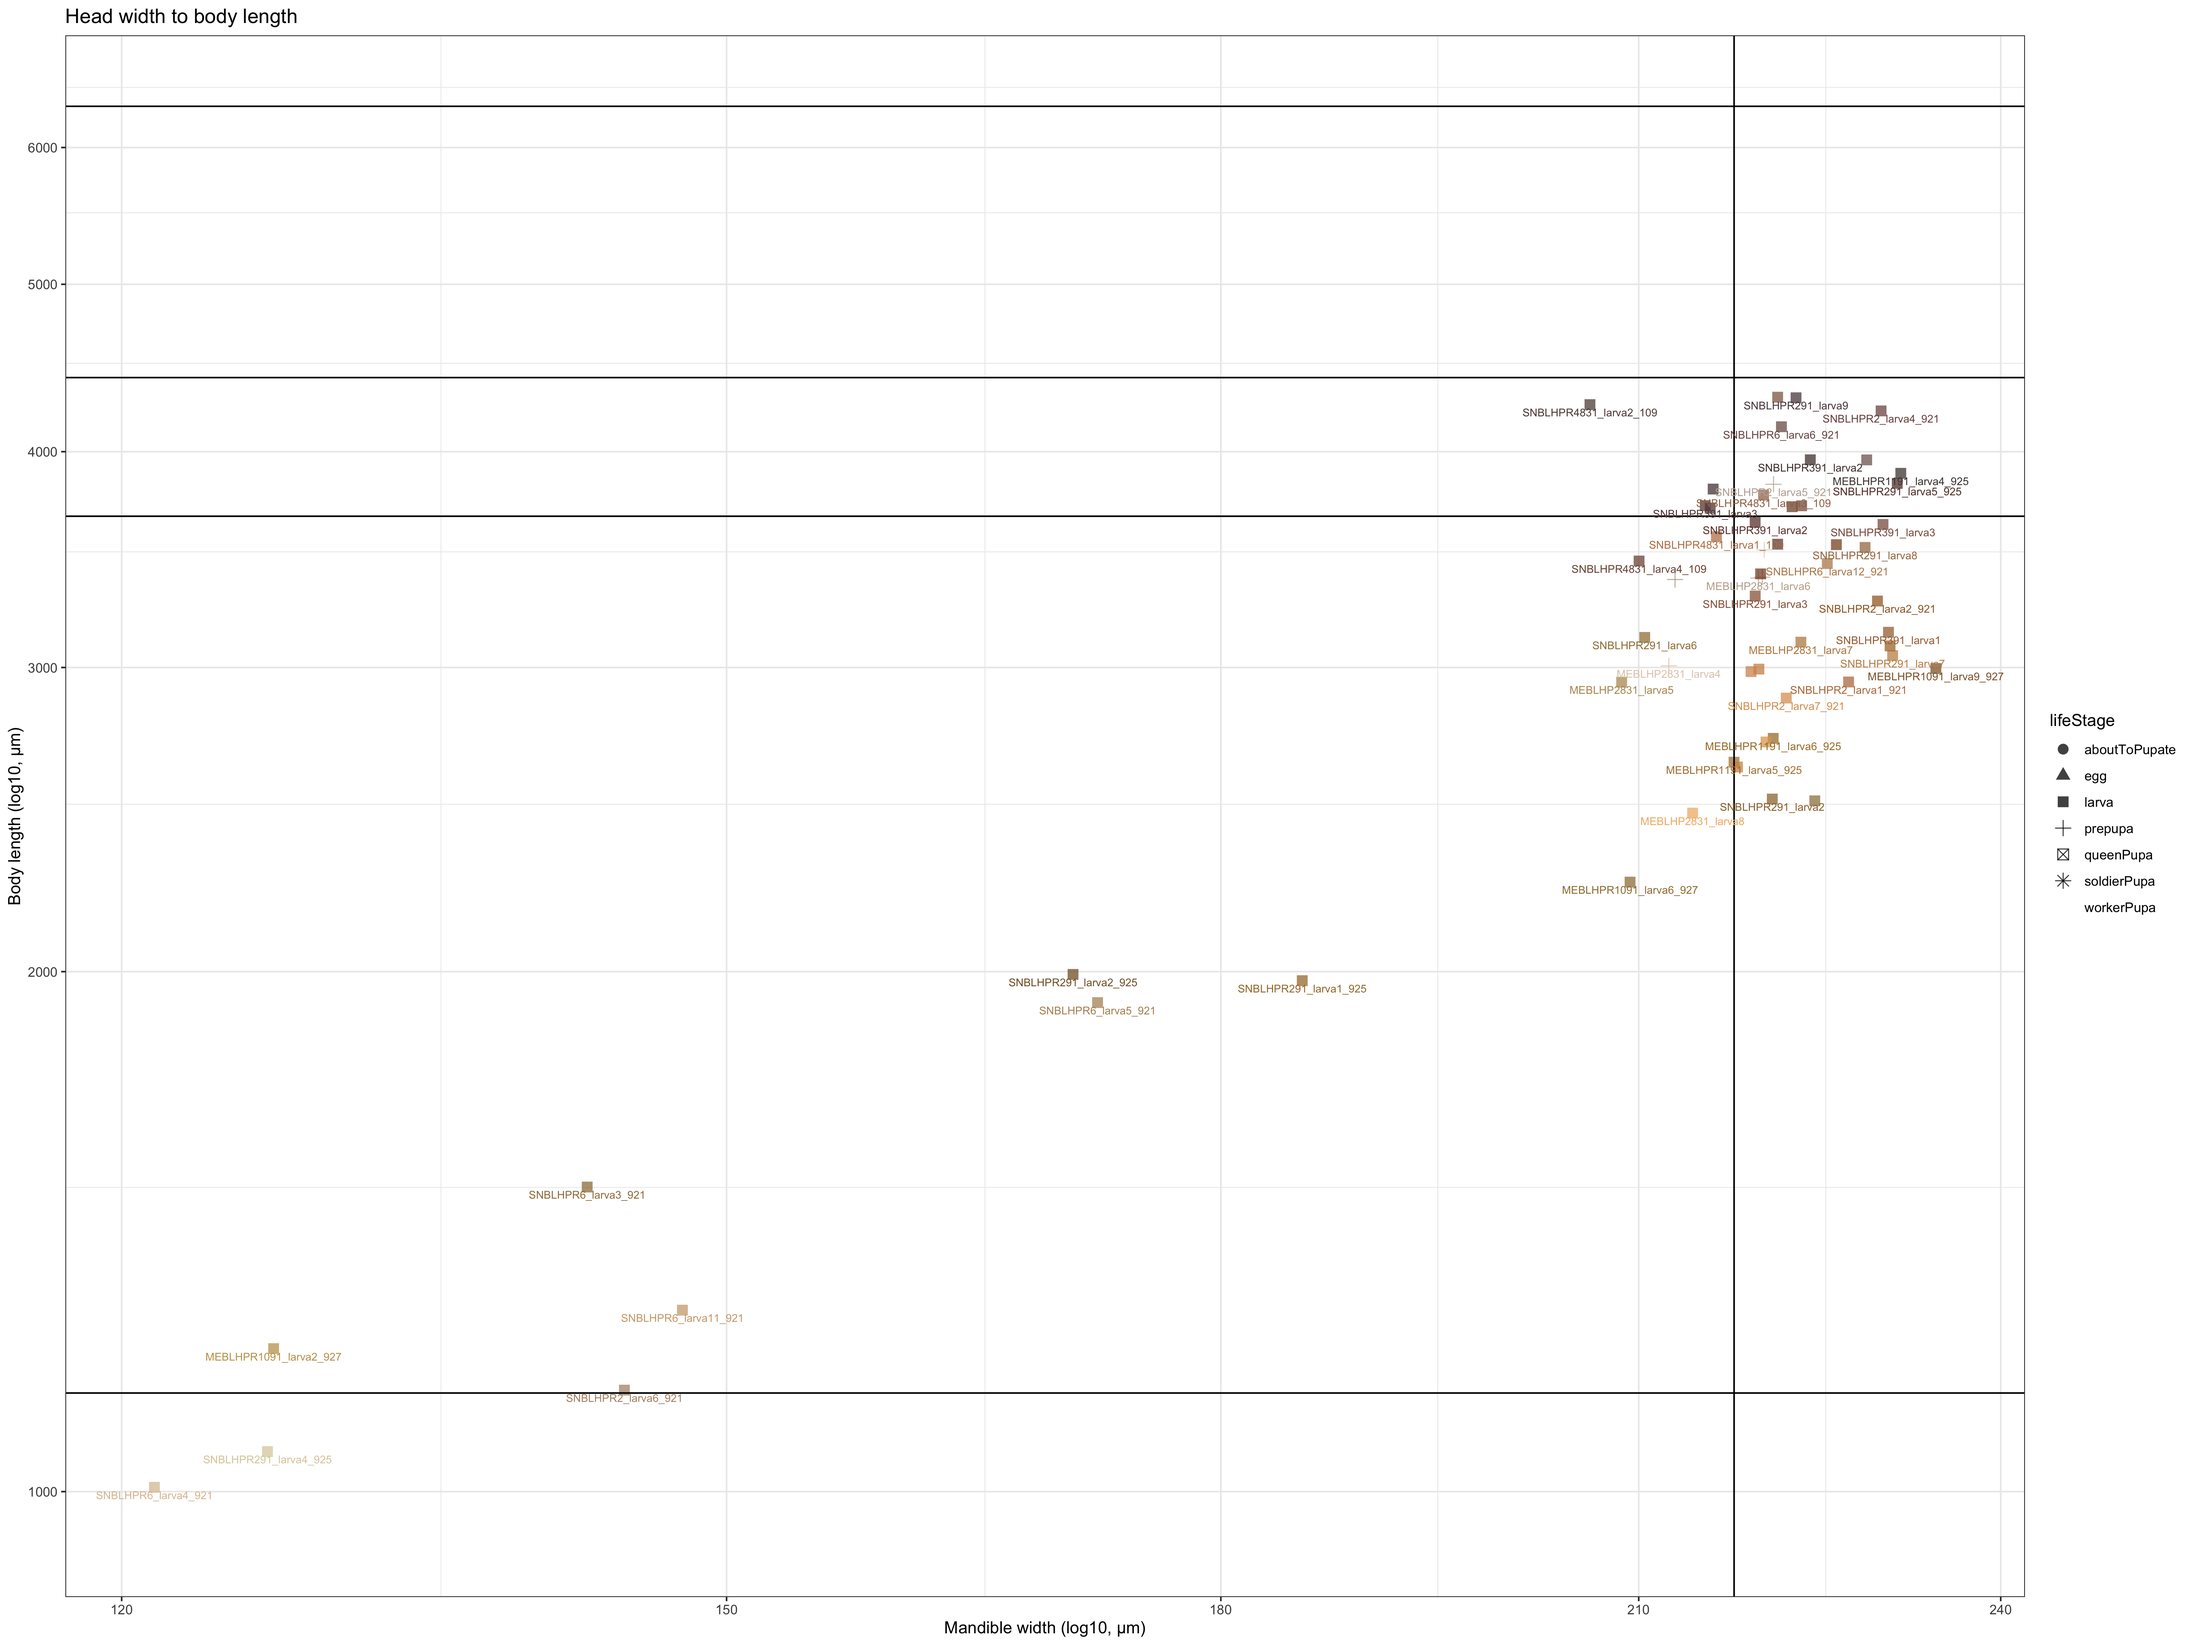
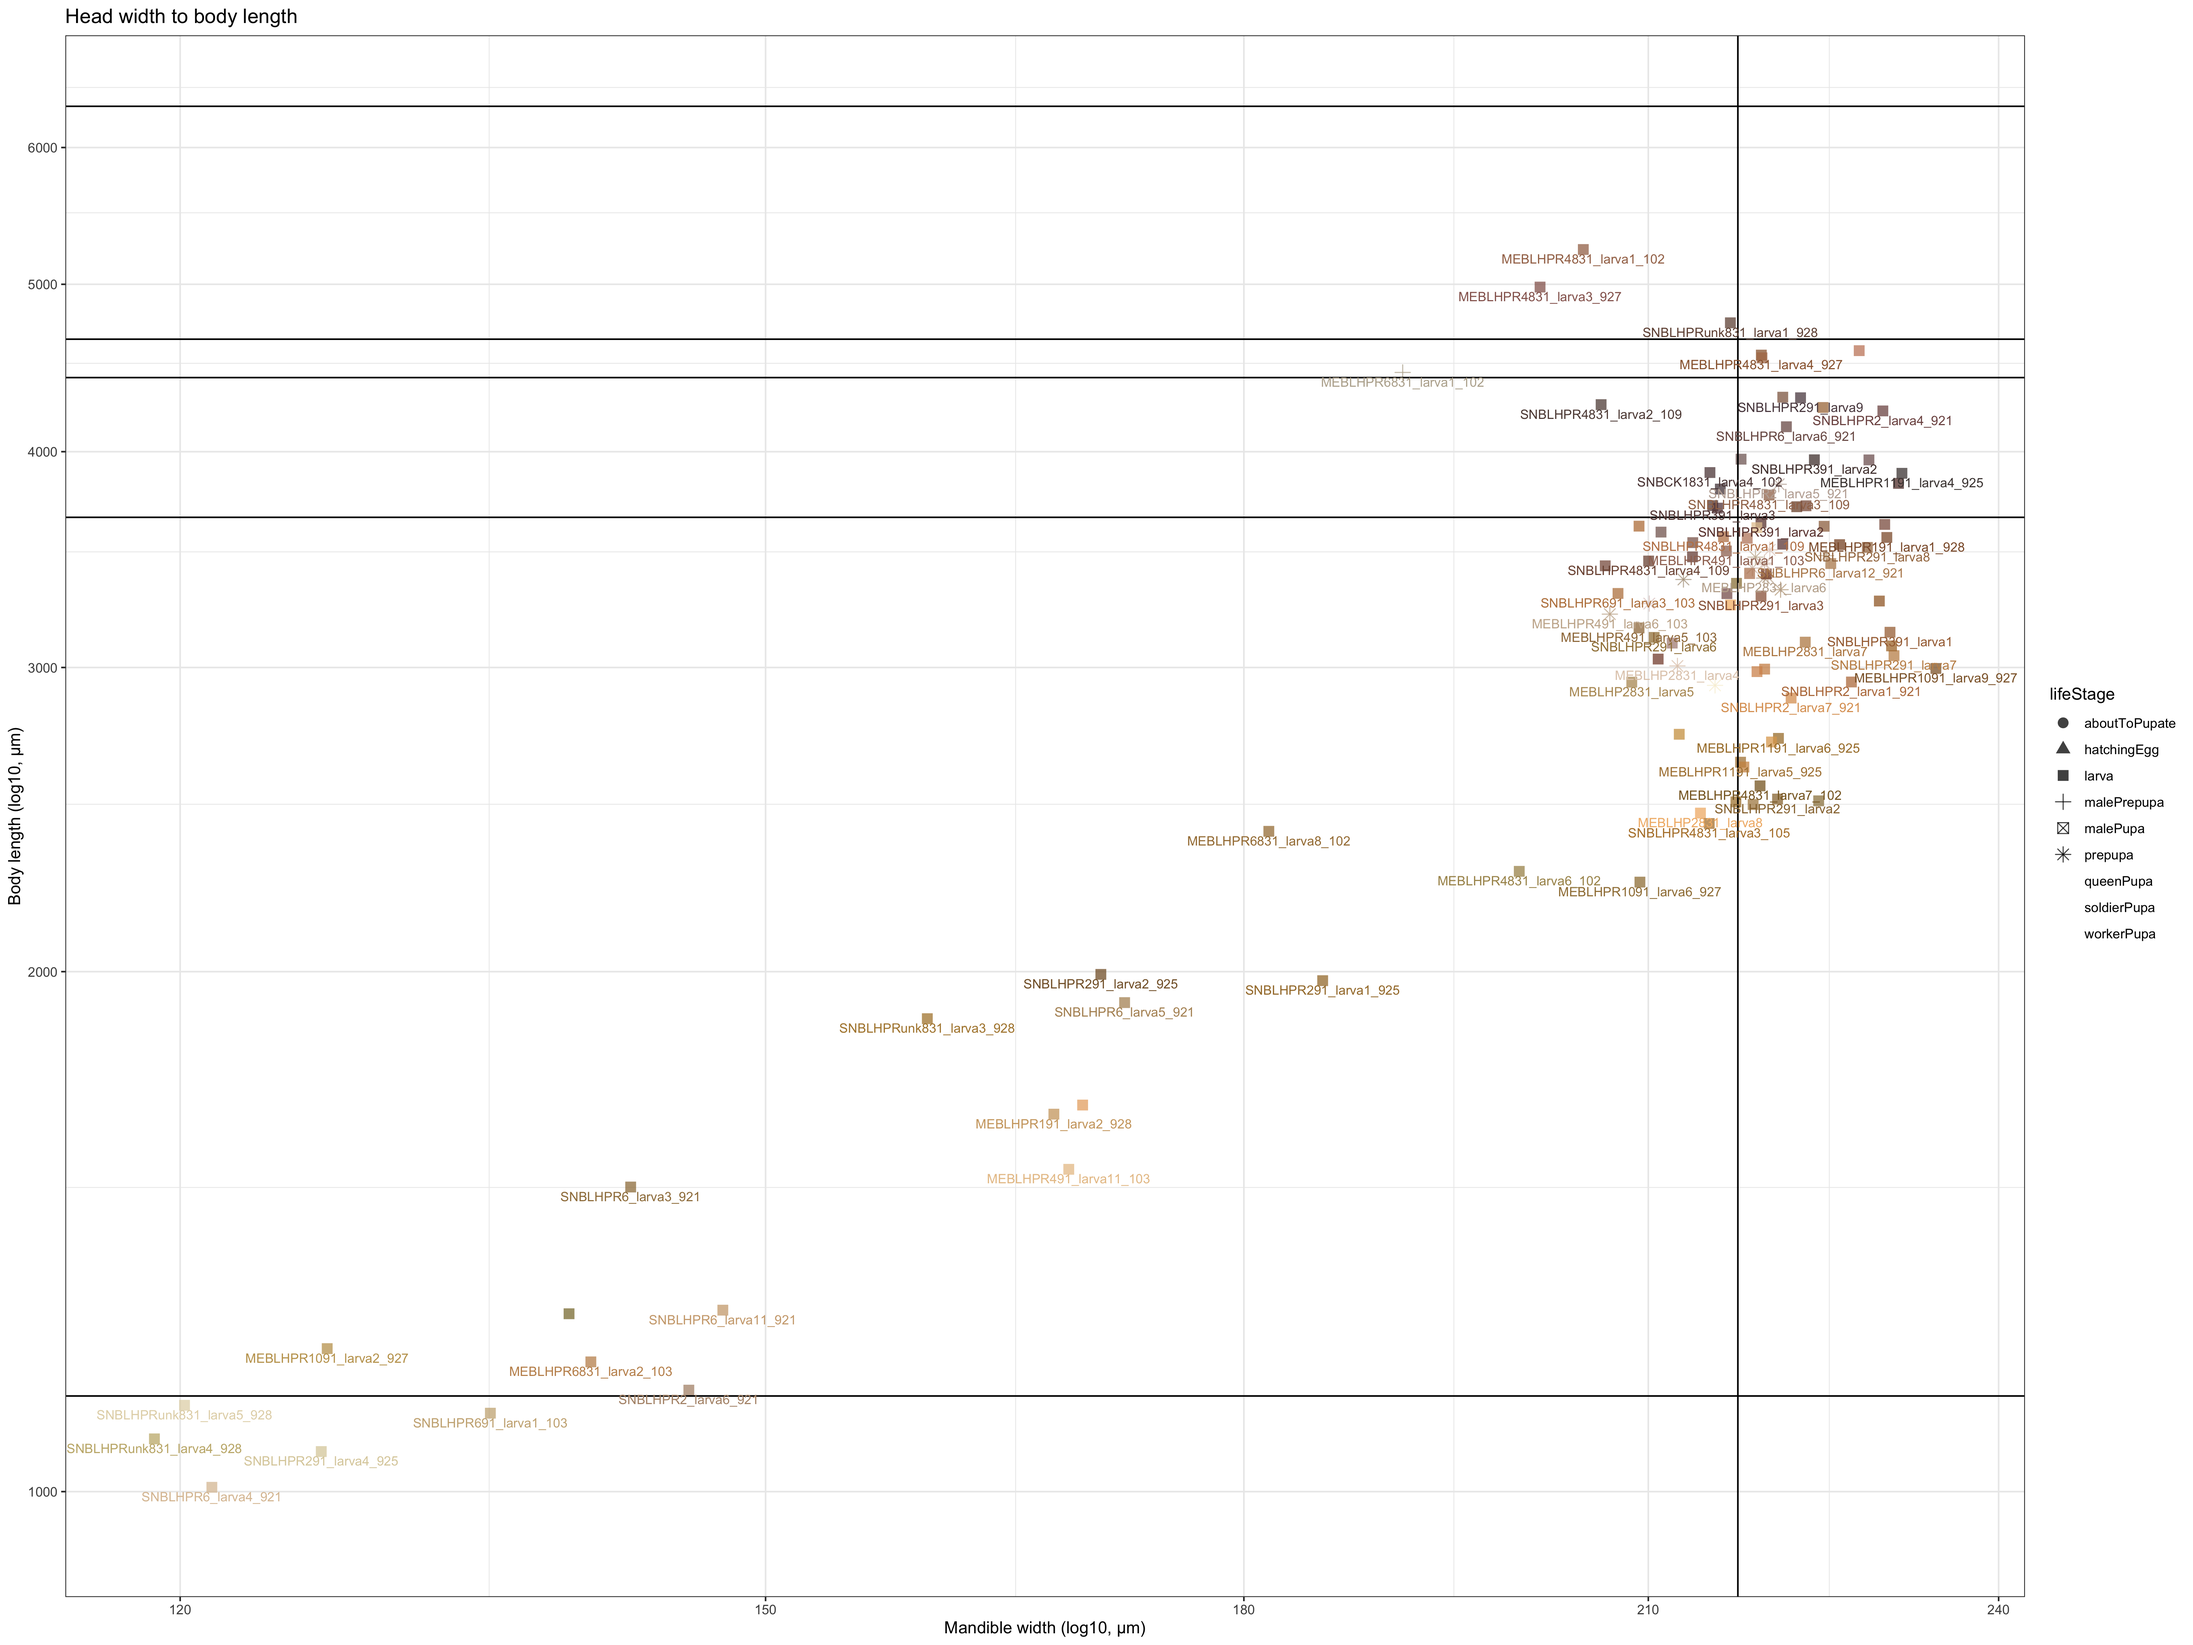
Adding data.

diff --git a/README.md b/README.md
@@ -9,12 +9,17 @@ benchmarks noted:
 
     ## [1] "Soldier pupa mean body length is 4415.2576 uM"
 
-    ## [1] "Worker pupa mean body length is 3670.21975862069 uM"
+    ## [1] "Worker pupa mean body length is 3664.84517142857 uM"
 
     ## [1] "Queen pupa mean body length is 6338.89 uM"
 
-    ## [1] "Male pupa mean body length is NaN uM"
+    ## [1] "Male pupa mean body length is 4647.183 uM"
 
-    ## [1] "The mean prepupal head width is 217.518666666667 uM"
+    ## [1] "The mean prepupal head width is 217.293466666667 uM"
 
-![](README_files/figure-gfm/pressure-1.png)<!-- -->
+![](README_files/figure-gfm/scatterplot-1.png)<!-- -->
+
+Note that three larvae from MEBLHPR4831 are currently developing into
+queens (I think) and have been measured on 9/27 and 10/02.
+
+![](README_files/figure-gfm/barplot-1.png)<!-- -->
